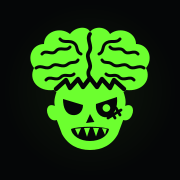
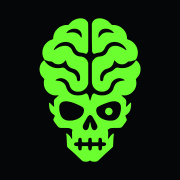
site: a cleaner zombie-brain mark
The old mark looked like a cheap toy. Its brain grooves were hand-wobbled
squiggles, its line weights didn't match, and it crammed in brows, fangs, an
X-eye and stitches.

The new one is a brain for a cranium on an undead skull. It is exactly
symmetric except for the single lit right eye, and the mouth is stitched shut.
Its details are real cut-outs instead of painted-on dark shapes, so it holds
up on any background and still reads at 16 px.

The art was drawn with an image model, mirrored about its middle, and traced
with potrace. site/brand/build-icons.sh rebuilds every copy from
site/brand/mark.png: the inline symbol, favicon.svg, favicon.ico and
apple-touch-icon.png. The icon URLs move to ?v=3 so browsers drop the old
mark, and og.jpg is re-shot so link previews show it.

Changed region(s): [[0.1667, 0.0833, 0.8333, 0.9167]]

diff --git a/site/index.html b/site/index.html
@@ -20,9 +20,9 @@
     <meta name="twitter:card" content="summary_large_image" />
     <!-- The ICO is for browsers and crawlers that cannot read SVG icons; sizes="32x32" keeps the rest on the SVG.
          Browsers keep favicons by URL, so bump ?v= whenever the mark changes. -->
-    <link rel="icon" href="/favicon.ico?v=2" sizes="32x32" />
-    <link rel="icon" href="/favicon.svg?v=2" type="image/svg+xml" />
-    <link rel="apple-touch-icon" href="/apple-touch-icon.png?v=2" />
+    <link rel="icon" href="/favicon.ico?v=3" sizes="32x32" />
+    <link rel="icon" href="/favicon.svg?v=3" type="image/svg+xml" />
+    <link rel="apple-touch-icon" href="/apple-touch-icon.png?v=3" />
     <link rel="preconnect" href="https://fonts.googleapis.com" />
     <link rel="preconnect" href="https://fonts.gstatic.com" crossorigin />
     <!-- IM Fell English is for the scene: it is carved into the headstone and inked on the letter. -->
@@ -33,35 +33,10 @@
   </head>
   <body>
     <svg width="0" height="0" style="position: absolute" aria-hidden="true">
-      <symbol id="zb-mark" viewBox="-1 -2 66 66">
-        <g fill="currentColor">
-          <path
-            d="M14 31C6 32 1 26 4 20C0 15 3 8 9 8C9 2 17-1 22 3C25-1 31-1 32 2C34-1 40-1 42 3C47-1 55 2 55 8C61 8 64 15 60 20C63 26 58 32 50 31C47 34 40 33 38 31C35 33 29 33 26 31C23 33 17 34 14 31Z"
-          />
-          <path
-            d="M16 30L20 26L22 30L26 25.5L28.5 29.5L32 25L35.5 29.5L38 25.5L42 30L44 26L48 30C50 35 50 37 49.6 39C52.5 37.5 54.5 40 53 43.5C52 46 50 46.5 48.6 46L46 53C43 58.5 38 61 32 61C26 61 21 58.5 18 53L15.4 46C14 46.5 12 46 11 43.5C9.5 40 11.5 37.5 14.4 39C14 37 14 35 16 30Z"
-          />
-          <path d="M23 29C23 33 24.5 35 24.5 37C24.5 39 22 39 22 37C22 35 22.5 33 22 29Z" />
-        </g>
-        <g fill="none" stroke="var(--mark-ink, #050607)" stroke-linecap="round" stroke-linejoin="round">
-          <path stroke-width="2.2" d="M15 30.5L20 26L22 30L26 25.5L28.5 29.5L32 25L35.5 29.5L38 25.5L42 30L44 26L49 30.5" />
-          <path stroke-width="1.9" d="M32 3C30 6 33.5 9 31.5 12C29.5 15 33.5 18 31.5 21C30.5 23 32 25 32 25" />
-          <path
-            stroke-width="1.5"
-            d="M8 13C10 10.5 13 14 15 11.5C17 9 20 12 22 9.5M5 20C8 18 10 21.5 13 19C15.5 17 18 20.5 21 18C23 16.5 25 18 26 16M10 26C12 23.5 15 27 17.5 24.5C19.5 22.5 22 25 24 23M17 5.5C19 8 22 5.5 24.5 8C26 9.5 25 12 27.5 13M56 13C54 10.5 51 14 49 11.5C47 9 44 12 42 9.5M59 20C56 18 54 21.5 51 19C48.5 17 46 20.5 43 18C41 16.5 39 18 38 16M54 26C52 23.5 49 27 46.5 24.5C44.5 22.5 42 25 40 23M47 5.5C45 8 42 5.5 39.5 8C38 9.5 39 12 36.5 13"
-          />
-          <path stroke-width="1.4" d="M41 45L47.5 41M42.5 41.5L44.5 45M45 40L47 43.5" />
-        </g>
-        <g fill="var(--mark-ink, #050607)">
-          <path d="M18.5 35.5L28.5 38.5C28.5 42 26 44 23 43.5C20 43 18.5 40 18.5 35.5Z" />
-          <path d="M45.5 34.5L35 38C34.5 42.5 37.5 45 40.5 44.6C44 44 46 40 45.5 34.5Z" />
-          <path d="M32 43L30 47.5L34.2 47Z" />
-          <path d="M22.5 50.5C26 49 38 49 41.5 50.5C41 54 37 56.5 32 56.5C27 56.5 23 54 22.5 50.5Z" />
-        </g>
-        <g fill="currentColor">
-          <circle cx="40.2" cy="40" r="1.9" />
-          <path d="M24.5 50.4L26 53.6L27.5 50.1ZM29 50L30.5 54.4L32 49.9ZM33.5 49.9L35 54.2L36.5 50ZM38 50.1L39.5 53.4L40.4 50.4Z" />
-        </g>
+      <!-- The mark: a brain for a cranium on an undead skull, one eye still lit. site/brand/build-icons.sh
+           traces it from site/brand/mark.png and writes it here and into the icons, so change it there. -->
+      <symbol id="zb-mark" viewBox="313 312 1420 1420">
+        <path fill="currentColor" transform="translate(0 2048) scale(.1 -.1)" d="M9175 17129 c-27 -5 -76 -14 -108 -20 -150 -26 -381 -123 -522 -219 -63 -43 -242 -218 -351 -343 l-40 -47 -136 0 c-75 0 -158 -4 -185 -9 -26 -6 -75 -15 -108 -22 -135 -26 -320 -105 -450 -192 -83 -55 -287 -257 -345 -342 -142 -208 -230 -466 -230 -672 0 -117 -10 -130 -130 -168 -106 -33 -247 -99 -331 -155 -87 -58 -290 -259 -349 -345 -100 -147 -170 -315 -210 -504 -22 -104 -28 -330 -11 -418 6 -26 15 -75 22 -108 22 -118 96 -290 168 -393 11 -16 52 -35 131 -63 63 -22 133 -46 155 -54 119 -41 192 -55 297 -55 59 0 119 -5 134 -10 15 -6 61 -41 103 -79 201 -181 464 -235 751 -154 133 37 279 138 375 259 101 127 123 118 159 -65 58 -287 260 -526 516 -606 341 -107 339 -106 456 -193 145 -107 263 -283 319 -478 23 -78 25 -104 25 -265 0 -199 -6 -227 -59 -272 -62 -52 -140 -45 -201 18 -30 31 -34 41 -41 117 -19 219 -71 338 -211 484 -112 115 -182 157 -378 224 -240 82 -336 138 -480 284 -71 73 -95 90 -150 110 -128 48 -134 49 -192 31 -127 -38 -192 -45 -399 -45 -256 0 -355 18 -574 103 -168 64 -271 124 -411 238 -117 95 -248 248 -300 350 -36 73 -62 71 -153 -7 -178 -153 -303 -397 -333 -649 -23 -195 -3 -358 72 -575 13 -36 30 -78 38 -95 46 -92 163 -239 280 -351 73 -69 73 -70 31 -206 -16 -52 -19 -95 -19 -248 0 -198 6 -233 67 -410 129 -372 474 -673 865 -755 87 -18 328 -20 393 -4 55 14 98 5 93 -19 -2 -9 -57 -60 -123 -113 -171 -137 -276 -249 -306 -324 -21 -53 -24 -75 -24 -200 1 -77 6 -176 13 -220 21 -133 25 -173 18 -200 -13 -52 -51 -24 -249 181 -248 255 -252 255 -243 2 3 -90 9 -197 14 -238 17 -142 73 -321 133 -429 55 -98 244 -278 347 -330 76 -39 74 -66 -19 -262 -109 -229 -124 -185 240 -689 129 -179 189 -233 298 -271 52 -17 86 -19 437 -19 390 0 452 -5 562 -43 73 -26 179 -85 208 -116 29 -30 29 -31 14 -68 -28 -67 -40 -172 -34 -293 14 -286 17 -509 7 -529 -17 -31 -36 -16 -77 62 -55 108 -117 191 -218 296 -96 99 -194 171 -232 171 -27 0 -49 -33 -39 -58 4 -9 11 -51 16 -92 6 -41 15 -109 20 -150 10 -71 20 -276 36 -745 10 -268 7 -262 203 -426 67 -55 251 -218 445 -393 129 -117 387 -362 634 -602 119 -117 193 -180 227 -198 78 -38 181 -56 330 -56 150 0 219 17 307 78 66 45 94 45 151 -2 76 -62 135 -76 314 -76 290 0 299 5 662 364 157 154 335 326 395 382 141 128 376 340 530 476 150 132 210 195 227 233 9 21 15 130 20 380 8 393 21 579 54 782 10 63 -1 93 -34 93 -80 0 -336 -260 -422 -430 -16 -30 -38 -66 -51 -79 -22 -23 -23 -23 -36 -5 -14 19 -13 228 3 514 6 108 -5 209 -31 288 -19 56 -11 70 66 123 162 110 216 119 705 119 433 0 451 2 546 68 77 54 166 165 378 475 139 202 147 239 77 383 -66 135 -104 250 -91 271 6 10 40 34 75 53 95 51 284 243 331 335 70 137 114 293 129 455 21 216 22 349 5 375 -29 43 -49 31 -166 -100 -153 -171 -298 -302 -315 -284 -13 15 -9 103 15 289 22 173 22 185 5 265 -29 144 -94 230 -282 375 -129 100 -173 140 -173 157 0 19 43 26 86 14 59 -16 306 -14 393 4 247 52 402 135 584 314 147 144 221 254 296 443 83 209 96 498 31 718 -21 71 -16 79 103 205 162 171 216 256 275 431 50 148 62 223 62 397 0 136 -4 172 -25 257 -52 205 -132 346 -277 487 -76 74 -120 101 -146 91 -6 -1 -42 -51 -82 -111 -160 -240 -368 -407 -642 -516 -214 -84 -357 -111 -599 -111 -182 0 -239 7 -391 46 -52 13 -65 13 -120 -1 -98 -26 -158 -61 -223 -133 -66 -72 -191 -170 -269 -209 -61 -31 -102 -46 -231 -85 -151 -45 -225 -88 -335 -194 -160 -155 -219 -281 -239 -512 -8 -81 -9 -85 -50 -125 -38 -39 -45 -42 -95 -42 -59 0 -92 18 -130 69 -19 25 -21 44 -24 215 -4 209 3 250 61 388 46 109 120 214 218 310 132 130 169 148 519 258 254 80 444 305 520 617 16 67 34 126 39 131 19 19 48 -1 116 -80 176 -204 368 -293 631 -293 79 0 121 6 188 25 139 40 193 72 335 195 l64 55 146 6 c155 7 180 12 361 79 58 21 124 44 148 51 99 29 196 213 252 478 22 104 27 312 11 398 -6 26 -15 75 -22 108 -47 246 -184 492 -376 676 -156 149 -302 236 -514 304 -114 37 -119 44 -119 164 0 213 -76 442 -218 656 -67 101 -246 283 -352 357 -125 88 -314 170 -455 197 -33 7 -82 16 -108 22 -27 5 -110 9 -184 9 l-136 0 -31 36 c-73 86 -286 299 -338 340 -95 74 -324 180 -463 214 -186 45 -249 53 -370 47 -262 -14 -404 -68 -542 -209 -137 -140 -193 -301 -178 -505 4 -54 6 -129 5 -168 -2 -59 -3 -257 -1 -625 0 -44 0 -125 -1 -180 0 -235 0 -233 10 -940 7 -543 7 -545 31 -605 16 -41 42 -78 81 -117 64 -66 99 -74 168 -39 91 45 267 91 352 91 93 0 239 40 320 87 101 59 224 207 271 325 134 340 420 560 794 610 146 19 180 20 249 9 39 -6 100 -16 136 -22 167 -27 360 -114 520 -235 123 -93 281 -282 350 -418 52 -103 32 -144 -43 -87 -199 150 -388 254 -583 319 -177 60 -246 72 -418 72 -176 0 -233 -12 -361 -78 -110 -56 -245 -184 -288 -272 -14 -30 -53 -111 -86 -180 -73 -153 -148 -246 -273 -336 -126 -90 -310 -154 -443 -154 -120 0 -303 -48 -404 -106 -63 -37 -239 -211 -278 -276 -77 -127 -108 -268 -107 -480 1 -82 2 -170 1 -198 0 -27 1 -135 2 -240 1 -249 1 -714 0 -887 -1 -76 3 -205 8 -288 12 -176 29 -239 111 -400 50 -100 65 -120 171 -226 106 -106 126 -121 226 -171 143 -73 226 -98 359 -109 154 -13 280 1 405 44 135 46 200 86 302 187 100 100 159 203 207 365 39 127 55 171 82 226 125 244 341 403 632 464 98 20 166 19 279 -5 138 -30 213 -57 281 -104 72 -48 88 -68 72 -93 -9 -15 -31 -19 -115 -24 -494 -30 -788 -236 -908 -636 -71 -237 -114 -315 -250 -456 -146 -152 -343 -253 -600 -307 -134 -28 -427 -29 -559 0 -162 34 -337 97 -413 147 -67 44 -116 40 -174 -17 -98 -95 -114 -129 -201 -435 -57 -202 -70 -232 -98 -222 -16 6 -30 48 -96 295 -63 236 -72 256 -155 340 -88 89 -107 92 -206 31 -79 -47 -251 -108 -394 -138 -140 -30 -428 -30 -566 -1 -264 56 -441 144 -593 296 -134 134 -200 248 -256 444 -79 276 -203 432 -435 545 -162 79 -258 102 -467 114 -162 8 -174 26 -73 103 50 37 175 90 255 107 115 24 192 33 231 28 291 -39 440 -117 626 -329 71 -80 103 -137 137 -245 14 -46 38 -120 52 -165 88 -275 269 -455 540 -533 78 -23 104 -25 264 -25 213 0 286 17 464 107 101 51 121 66 227 172 106 106 121 126 172 227 31 61 68 150 82 198 l25 88 0 978 0 978 -26 88 c-36 126 -66 176 -174 288 -115 119 -153 147 -268 191 -115 44 -217 65 -318 65 -167 0 -381 89 -513 215 -95 91 -154 168 -192 252 -104 231 -130 276 -208 354 -85 84 -207 155 -317 183 -82 21 -332 22 -429 1 -286 -60 -447 -136 -784 -369 -48 -32 -56 -35 -69 -22 -13 13 -11 23 21 89 73 155 219 330 373 449 120 92 355 193 504 217 36 6 97 15 136 22 102 17 301 -3 415 -41 289 -97 498 -284 613 -549 57 -132 92 -184 173 -263 73 -69 132 -108 203 -133 64 -23 178 -45 230 -45 60 0 176 -25 264 -56 167 -61 160 -59 202 -37 49 24 114 117 143 204 21 63 21 64 21 1379 0 1459 5 1343 -63 1475 -33 64 -177 206 -242 238 -69 33 -169 67 -235 79 -79 14 -286 18 -345 7z m-231 -1005 c97 -25 231 -100 305 -170 80 -75 122 -143 161 -258 28 -81 30 -98 30 -235 0 -164 -8 -193 -48 -172 -12 6 -29 26 -38 44 -19 35 -122 175 -163 221 -31 34 -147 114 -216 148 -220 110 -472 120 -907 35 -110 -22 -127 5 -50 87 149 160 284 238 532 305 61 16 324 13 394 -5z m3016 -4 c210 -58 341 -133 483 -278 111 -112 98 -144 -44 -106 -192 50 -504 73 -649 47 -85 -14 -178 -47 -265 -91 -98 -51 -260 -209 -329 -323 -52 -85 -87 -110 -107 -77 -5 7 -9 77 -9 154 0 123 3 154 26 230 36 126 67 177 164 274 96 96 148 128 270 164 116 34 345 37 460 6z m-3891 -6950 c31 -5 88 -14 126 -21 287 -47 655 -183 1125 -418 202 -102 238 -128 280 -212 58 -114 70 -204 45 -327 -45 -215 -125 -354 -290 -503 -190 -171 -432 -280 -785 -353 -120 -25 -472 -22 -570 4 -161 44 -300 118 -393 208 -134 129 -240 346 -287 589 -11 60 -25 130 -30 156 -6 27 -10 130 -10 230 0 153 3 193 21 259 67 248 289 395 598 397 63 1 140 -3 170 -9z m4656 -5 c146 -30 237 -75 321 -159 72 -72 94 -113 129 -231 21 -75 25 -107 25 -228 0 -77 -4 -166 -10 -196 -5 -31 -14 -90 -20 -131 -48 -325 -184 -591 -372 -731 -181 -134 -319 -172 -630 -171 -229 1 -317 15 -538 89 -274 92 -440 197 -607 385 -153 172 -235 448 -187 631 49 189 125 241 745 507 240 103 651 228 756 231 21 1 49 5 63 9 43 14 251 11 325 -5z m-2400 -1329 c93 -44 158 -137 378 -541 203 -373 237 -452 237 -555 0 -104 -28 -173 -102 -247 -89 -90 -168 -112 -271 -77 -133 45 -218 231 -277 609 -13 81 -40 175 -51 175 -11 0 -39 -77 -39 -108 -1 -104 -98 -458 -150 -545 -124 -207 -367 -190 -478 33 -29 57 -32 72 -32 157 0 83 4 102 36 182 20 50 52 116 71 148 19 32 55 99 80 148 25 50 74 137 108 195 34 58 82 139 106 180 107 185 201 270 299 270 19 0 58 -11 85 -24z m-957 -2183 c61 -46 67 -62 72 -225 7 -204 -21 -188 316 -188 326 0 304 -11 304 153 0 138 16 192 70 241 63 57 150 60 211 9 50 -42 59 -77 59 -223 0 -126 1 -132 25 -155 l24 -25 271 0 271 0 24 25 c24 23 25 29 25 155 0 146 9 181 59 223 62 52 148 48 213 -11 60 -54 68 -82 68 -227 0 -165 0 -165 145 -165 66 0 118 -5 138 -13 45 -19 105 -89 113 -131 24 -132 -82 -216 -273 -216 -119 0 -123 -5 -123 -158 0 -102 -3 -124 -22 -162 -51 -100 -178 -131 -259 -63 -50 42 -59 77 -59 218 0 178 25 165 -308 165 -199 0 -273 -3 -285 -13 -25 -18 -47 -110 -47 -200 0 -90 -15 -132 -59 -170 -61 -51 -148 -48 -211 9 -53 48 -70 103 -70 231 0 153 21 143 -310 143 -335 0 -310 13 -310 -165 0 -141 -9 -176 -59 -218 -81 -68 -208 -37 -258 63 -20 38 -23 60 -23 162 0 155 -3 158 -133 158 -117 0 -174 18 -221 70 -61 68 -60 153 2 222 52 58 83 68 207 68 145 0 145 0 145 164 0 69 5 137 11 153 13 36 66 92 104 109 40 19 119 12 153 -13z M11894 8539 c-77 -29 -141 -91 -180 -173 -31 -65 -34 -78 -34 -166 0 -79 4 -103 24 -145 33 -69 117 -147 199 -186 61 -28 75 -31 140 -27 150 9 261 82 323 213 42 86 46 176 14 271 -25 72 -119 174 -195 210 -67 32 -213 33 -291 3z" />
       </symbol>
       <symbol id="zb-down" viewBox="0 0 16 16">
         <path d="M8 2v9.5M3.75 7.5 8 11.75l4.25-4.25M2.5 14h11" />

diff --git a/site/src/style.css b/site/src/style.css
@@ -8,7 +8,6 @@
   --acid-ink: #041200;
   --acid-glow: rgba(108, 255, 47, 0.55);
   --acid-haze: rgba(108, 255, 47, 0.16);
-  --mark-ink: #050607;
   --display: 'Big Shoulders Display', 'Arial Narrow', Impact, sans-serif;
   --body: 'Geist', ui-sans-serif, system-ui, sans-serif;
   --mono: 'Geist Mono', ui-monospace, 'SF Mono', monospace;
